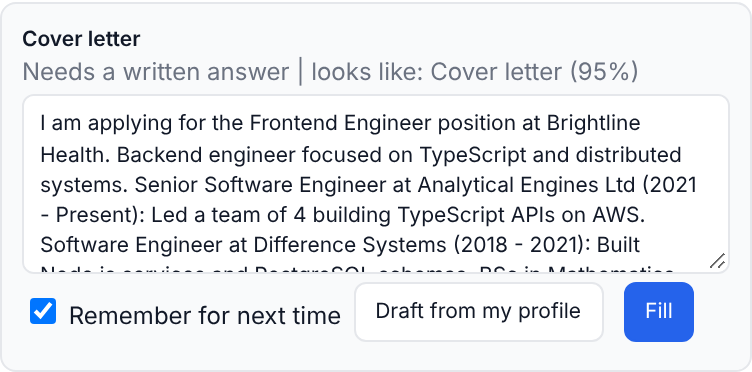
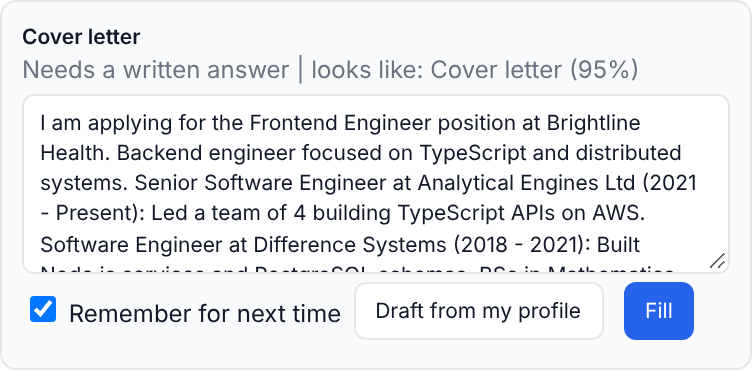
M10: redacted broken-site diagnostics export

diff --git a/src/core/redact.ts b/src/core/redact.ts
@@ -1,0 +1,56 @@
+// Redaction for "report a broken site". The export must be useful for fixing an adapter (structure,
+// labels, attributes) while containing none of the user's personal values.
+
+const EMAIL = /[\w.+-]+@[\w-]+(\.[\w-]+)+/g;
+const PHONE = /\+?\d[\d\s().-]{7,}\d/g;
+const LONG_NUMBER = /\b\d{5,}\b/g;
+
+/** Values to scrub: every non-trivial string in the profile and answer bank. */
+export function secretsFrom(values: unknown): string[] {
+  const out = new Set<string>();
+  const walk = (v: unknown) => {
+    if (typeof v === 'string') {
+      const t = v.trim();
+      if (t.length >= 3) out.add(t);
+      // Also individual words of multi-word values (a name shown as "Ada" elsewhere on the page).
+      for (const w of t.split(/[\s,/|]+/)) if (w.length >= 4 && !/^(https?:|www\.)/.test(w)) out.add(w);
+    } else if (Array.isArray(v)) v.forEach(walk);
+    else if (v && typeof v === 'object') Object.values(v).forEach(walk);
+  };
+  walk(values);
+  // Longest first so "Ada Lovelace" is replaced before "Ada".
+  return [...out].sort((a, b) => b.length - a.length);
+}
+
+function escapeRe(s: string): string {
+  return s.replace(/[.*+?^${}()|[\]\\]/g, '\\$&');
+}
+
+export function scrubText(text: string, secrets: string[]): string {
+  let t = text;
+  for (const s of secrets) t = t.replace(new RegExp(escapeRe(s), 'gi'), '[redacted]');
+  return t.replace(EMAIL, '[email]').replace(PHONE, '[phone]').replace(LONG_NUMBER, '[number]');
+}
+
+const KEEP_ATTRS = /^(id|class|name|type|role|for|required|disabled|readonly|multiple|accept|placeholder|title|alt|href|action|method|hidden|style|aria-[\w-]+|data-[\w-]+)$/;
+
+/** Redact a DOM subtree in place (call it on a clone). */
+export function redactTree(root: Element, secrets: string[]): void {
+  root.querySelectorAll('script, style, noscript, svg, iframe, img, video, audio, canvas, link, meta').forEach((n) => n.remove());
+  const all = [root, ...Array.from(root.querySelectorAll('*'))];
+  for (const el of all) {
+    if (el.tagName === 'TEXTAREA' || el.getAttribute('contenteditable') === 'true') el.textContent = '';
+    if (el.tagName === 'OPTION') el.removeAttribute('selected');
+    for (const attr of Array.from(el.attributes)) {
+      if (!KEEP_ATTRS.test(attr.name) || attr.name.startsWith('data-applyflow')) {
+        el.removeAttribute(attr.name);
+        continue;
+      }
+      let v = attr.value;
+      if (attr.name === 'href' || attr.name === 'action') v = v.split(/[?#]/)[0];
+      el.setAttribute(attr.name, scrubText(v, secrets));
+    }
+  }
+  const walker = root.ownerDocument.createTreeWalker(root, 4 /* NodeFilter.SHOW_TEXT */);
+  for (let n = walker.nextNode(); n; n = walker.nextNode()) n.nodeValue = scrubText(n.nodeValue ?? '', secrets);
+}

diff --git a/src/background/diagnostics.ts b/src/background/diagnostics.ts
@@ -1,0 +1,44 @@
+// "Report a broken site": a redacted snapshot of the form and how applyflow mapped each field.
+// Nothing is sent anywhere; the side panel saves it as a file the user can inspect and attach to an issue.
+import { matchField } from '../core/matching';
+import type { ScanResult } from '../core/messages';
+import { scrubText, secretsFrom } from '../core/redact';
+import type { Store } from '../storage/store';
+import { ensureContentScript, tabSend } from './tabs';
+
+export async function diagnostics(store: Store, tabId: number) {
+  await ensureContentScript(tabId);
+  const scan = await tabSend<ScanResult>(tabId, { type: 'scan' });
+  const [settings, profile, answers, secrets] = await Promise.all([store.get('settings'), store.get('profile'), store.get('answers'), store.get('secrets')]);
+  const scrub = secretsFrom({ profile, answers: answers.map((a) => a.value), key: secrets.llmApiKey });
+  const html = await tabSend<string>(tabId, { type: 'diagnose', secrets: scrub });
+  const fields = [];
+  for (const f of scan.fields) {
+    // Rules and fuzzy only: a bug report should not depend on, or call, the user's LLM.
+    const m = await matchField(f, { answers: [], threshold: settings.threshold });
+    fields.push({
+      label: scrubText(f.label, scrub),
+      kind: f.kind,
+      required: f.required,
+      name: scrubText(f.name, scrub),
+      options: f.options.map((o) => scrubText(o, scrub)),
+      matchedQuestion: m.questionId,
+      confidence: Number(m.confidence.toFixed(2)),
+      method: m.method,
+    });
+  }
+  const u = new URL(scan.url);
+  return {
+    report: 'applyflow broken-site report',
+    version: chrome.runtime.getManifest().version,
+    createdAt: new Date().toISOString(),
+    url: `${u.origin}${u.pathname}`,
+    site: scan.site,
+    adapterVerification: scan.verification,
+    blockers: scan.blockers,
+    hasNext: scan.hasNext,
+    hasSubmit: scan.hasSubmit,
+    fields,
+    html,
+  };
+}

diff --git a/tests/unit/redact.test.ts b/tests/unit/redact.test.ts
@@ -1,0 +1,35 @@
+import { describe, expect, it } from 'vitest';
+import { redactTree, scrubText, secretsFrom } from '../../src/core/redact';
+
+const secrets = secretsFrom({ firstName: 'Ada', lastName: 'Lovelace', email: 'ada@example.com', answers: [{ value: '42 LPA' }], city: 'London' });
+
+describe('redaction', () => {
+  it('scrubs profile values, emails, phones and long numbers', () => {
+    expect(scrubText('Hi Ada Lovelace (ada@example.com, +44 20 7946 0000), London, id 1234567', secrets)).toBe(
+      'Hi [redacted] [redacted] ([redacted], [phone]), [redacted], id [number]',
+    );
+    expect(scrubText('other@mail.com', secrets)).toBe('[email]');
+    expect(scrubText('Expected CTC: 42 LPA', secrets)).toBe('Expected CTC: [redacted]');
+  });
+
+  it('removes values, scripts and unknown attributes but keeps structure and labels', () => {
+    document.body.innerHTML = `
+      <form action="/apply?token=abc">
+        <label for="n">First name</label><input id="n" name="first" value="Ada" data-applyflow="filled 95%" data-applyflow-id="af-1" onclick="x()">
+        <textarea name="cl">Dear team, I am Ada Lovelace</textarea>
+        <select name="c"><option selected>London</option><option>Paris</option></select>
+        <div contenteditable="true">secret answer</div>
+        <span class="user-name">Ada Lovelace</span>
+        <img src="https://cdn/profile.jpg"><script>var token = 1</script>
+      </form>`;
+    const form = document.querySelector('form')!.cloneNode(true) as HTMLFormElement;
+    redactTree(form, secrets);
+    const html = form.outerHTML;
+    expect(html).not.toMatch(/Ada|Lovelace|London|secret answer|token|onclick|profile\.jpg/);
+    expect(html).not.toContain('data-applyflow');
+    expect(html).toContain('First name');
+    expect(html).toContain('name="first"');
+    expect(html).toContain('<option>Paris</option>');
+    expect(html).toContain('action="/apply"');
+  });
+});

diff --git a/tests/e2e/diagnostics.spec.ts b/tests/e2e/diagnostics.spec.ts
@@ -1,0 +1,29 @@
+import { expect, openPanel, serveFixture, tabIdFor, test } from './harness';
+import { ANSWERS, PROFILE, seed } from './seed';
+
+test('broken-site report contains structure and mapping but no personal values', async ({ context, sw, extensionId }) => {
+  const url = 'https://jobs.lever.co/spotify/2a55d6c9-c564-443a-be3e-a3851db5a93b/apply?utm=x';
+  await seed(sw);
+  await serveFixture(context, url, 'lever-spotify.html');
+  const page = await context.newPage();
+  await page.goto(url);
+  const tabId = await tabIdFor(sw, url);
+  const panel = await openPanel(context, extensionId, tabId);
+  // Fill first, so the page is full of personal values when the report is taken.
+  await panel.getByRole('button', { name: 'Scan and fill this page' }).click();
+  await expect(page.locator('input[name="email"]')).toHaveValue(PROFILE.email);
+
+  const download = panel.waitForEvent('download');
+  await panel.getByRole('button', { name: 'Report a broken site' }).click();
+  let text = '';
+  for await (const chunk of await (await download).createReadStream()) text += chunk;
+  const report = JSON.parse(text);
+
+  expect(report.site).toBe('lever');
+  expect(report.url).toBe('https://jobs.lever.co/spotify/2a55d6c9-c564-443a-be3e-a3851db5a93b/apply');
+  expect(report.fields.find((f: { label: string }) => f.label === 'Email').matchedQuestion).toBe('email');
+  expect(report.html).toContain('application-form');
+  for (const secret of [PROFILE.email, PROFILE.firstName, PROFILE.lastName, PROFILE.phone, PROFILE.linkedin, 'Analytical Engines', ...ANSWERS.map((a) => a.value).filter((v) => v.length > 3)]) {
+    expect(text, `report leaks ${secret}`).not.toContain(secret);
+  }
+});

diff --git a/src/sidepanel/FillTab.tsx b/src/sidepanel/FillTab.tsx
@@ -59,6 +59,21 @@ export function FillTab({ state, onChange }: { state: State; onChange: () => voi
     }
   }
 
+  async function exportDiagnostics() {
+    try {
+      const report = await send<{ site: string }>({ type: 'diagnostics', tabId: await currentTabId() });
+      const url = URL.createObjectURL(new Blob([JSON.stringify(report, null, 2)], { type: 'application/json' }));
+      const a = document.createElement('a');
+      a.href = url;
+      a.download = `applyflow-report-${report.site}-${Date.now()}.json`;
+      a.click();
+      URL.revokeObjectURL(url);
+      setError('');
+    } catch (e) {
+      setError((e as Error).message);
+    }
+  }
+
   async function allow() {
     // Must run inside the click handler: Chrome only shows the permission prompt for a user gesture.
     const granted = await chrome.permissions.request({ origins: [`${needsOrigin}/*`] });
@@ -78,6 +93,11 @@ export function FillTab({ state, onChange }: { state: State; onChange: () => voi
         {busy ? 'Reading the form...' : report ? 'Scan again' : 'Scan and fill this page'}
       </button>
       <p className="hint">Fields are filled only when applyflow is at least {Math.round(state.settings.threshold * 100)}% sure. Everything else is listed here for you.</p>
+      {report && (
+        <button className="small" onClick={exportDiagnostics}>
+          Report a broken site
+        </button>
+      )}
       {needsOrigin && (
         <div className="card warn">
           <p>applyflow needs your permission to read forms on {needsOrigin}.</p>

diff --git a/src/content/index.ts b/src/content/index.ts
@@ -8,6 +8,7 @@ import type { SiteAdapter } from './adapters/types';
 import { detectFields, findBlockers, type DetectedField } from './detect';
 import { fillField } from './fill';
 import { clearHighlights, highlight } from './highlight';
+import { redactTree } from '../core/redact';
 
 declare global {
   interface Window {
@@ -81,6 +82,14 @@ function submit(dryRun: boolean): { clicked: boolean; found: boolean } {
   return { clicked: true, found: true };
 }
 
+/** Redacted copy of the form (or the page when no form was found) for a bug report. */
+function diagnose(secrets: string[]): string {
+  const source = root ?? document.body;
+  const clone = source.cloneNode(true) as HTMLElement;
+  redactTree(clone, secrets);
+  return clone.outerHTML;
+}
+
 function next(): boolean {
   const btn = root && adapter ? adapter.nextButton(root) : null;
   btn?.click();
@@ -105,8 +114,10 @@ if (!window.__applyflowLoaded) {
           return submit(msg.dryRun);
         case 'next':
           return next();
+        case 'diagnose':
+          return diagnose(msg.secrets);
         default:
-          throw new Error(`Unknown request ${msg.type}`);
+          throw new Error(`Unknown request ${(msg as { type: string }).type}`);
       }
     };
     Promise.resolve()

diff --git a/src/background/handlers.ts b/src/background/handlers.ts
@@ -4,6 +4,7 @@ import type { Request, State } from '../core/messages';
 import type { Store } from '../storage/store';
 import { answerField, fillTab, generate, nextStep } from './fill';
 import { autoApply } from './autosubmit';
+import { diagnostics } from './diagnostics';
 
 export async function handle(store: Store, msg: Request, _sender: chrome.runtime.MessageSender): Promise<unknown> {
   switch (msg.type) {
@@ -33,6 +34,8 @@ export async function handle(store: Store, msg: Request, _sender: chrome.runtime
     case 'killSwitch':
       await store.update('settings', (s) => ({ ...s, autoSubmit: { ...s.autoSubmit, enabled: false } }));
       return getState(store);
+    case 'diagnostics':
+      return diagnostics(store, msg.tabId);
     case 'generate':
       return generate(store, msg.tabId, msg.field);
     case 'answerField':

diff --git a/src/core/messages.ts b/src/core/messages.ts
@@ -48,7 +48,7 @@ export type TabRequest =
   | { type: 'setField'; fieldId: string; value: string; resume: ResumeFile | null }
   | { type: 'submit'; dryRun: boolean }
   | { type: 'next' }
-  | { type: 'diagnose' };
+  | { type: 'diagnose'; secrets: string[] };
 
 export interface JobInfo {
   company: string;

diff --git a/PLAN.md b/PLAN.md
@@ -11,7 +11,7 @@ Status legend: [ ] todo, [x] done, [~] partial
 - [x] M7 LinkedIn/Naukri adapters
 - [x] M8 auto-submit with safeguards
 - [x] M9 truthfulness guard + cover letter generation
-- [ ] M10 diagnostics
+- [x] M10 diagnostics
 - [ ] M11 packaging + docs + reviewer pass
 
 Stop rule: no new milestone after 07:00 UTC.
